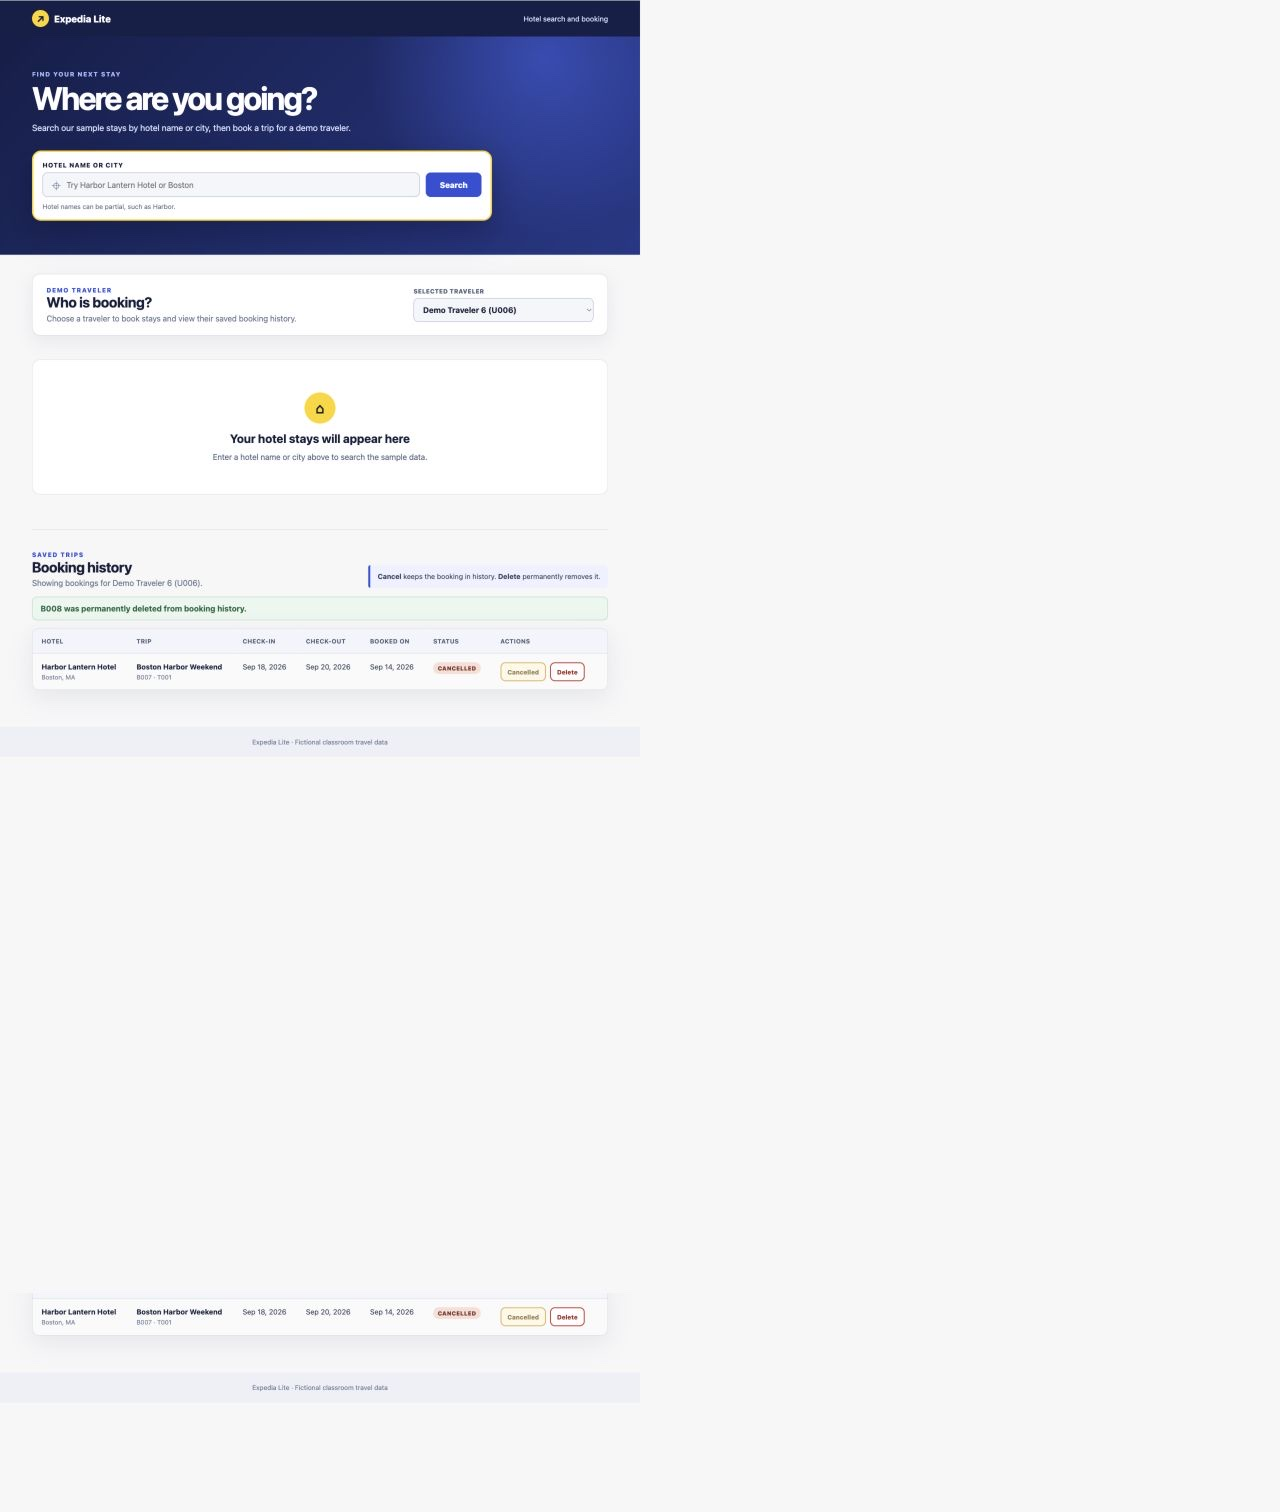
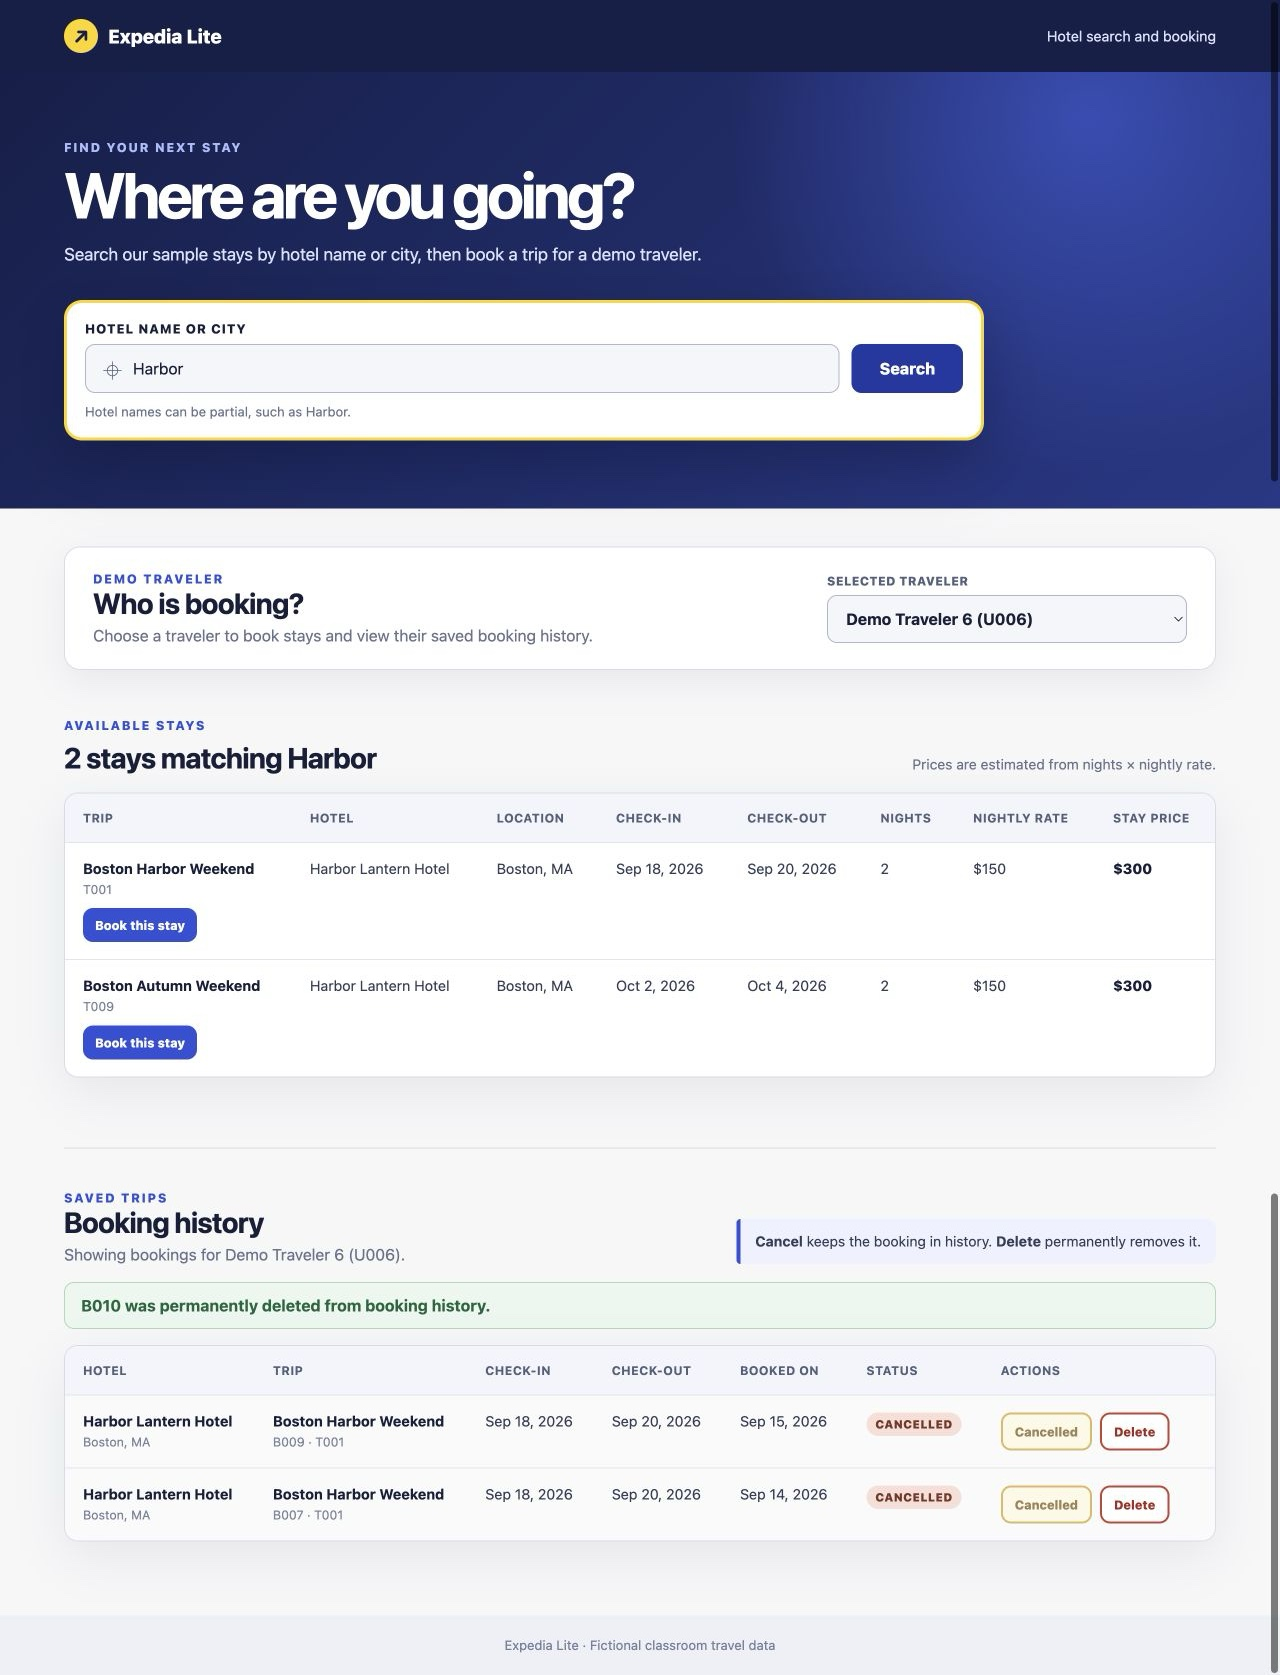
Harden Part 2 verification evidence and search parameter naming

diff --git a/frontend/src/App.vue b/frontend/src/App.vue
@@ -78,7 +78,7 @@ async function search() {
 
   loading.value = true
   try {
-    const response = await fetch(`${API_URL}/api/stays?city=${encodeURIComponent(searchTerm)}`)
+    const response = await fetch(`${API_URL}/api/stays?query=${encodeURIComponent(searchTerm)}`)
     if (!response.ok) {
       throw new Error(await getErrorMessage(response, 'The search service returned an error.'))
     }

diff --git a/backend/tests/test_search.py b/backend/tests/test_search.py
@@ -44,13 +44,39 @@ def test_hotel_name_and_no_match_searches(
 
 
 def test_api_returns_search_metadata_and_stays(client: TestClient) -> None:
-    response = client.get("/api/stays", params={"city": "New York"})
+    response = client.get("/api/stays", params={"query": "New York"})
 
     assert response.status_code == 200
     body = response.json()
     assert body["query"] == "New York"
     assert body["count"] == 3
     assert [stay["trip_id"] for stay in body["stays"]] == ["T003", "T004", "T011"]
+
+
+@pytest.mark.parametrize("parameter_name", ["query", "city"])
+def test_api_accepts_preferred_query_and_deprecated_city_alias(
+    client: TestClient,
+    parameter_name: str,
+) -> None:
+    response = client.get("/api/stays", params={parameter_name: "Harbor"})
+
+    assert response.status_code == 200
+    assert [stay["trip_id"] for stay in response.json()["stays"]] == [
+        "T001",
+        "T009",
+    ]
+
+
+def test_openapi_describes_search_parameters(client: TestClient) -> None:
+    parameters = client.get("/openapi.json").json()["paths"]["/api/stays"]["get"][
+        "parameters"
+    ]
+    parameters_by_name = {parameter["name"]: parameter for parameter in parameters}
+
+    assert parameters_by_name["query"]["description"] == (
+        "Hotel name or city, matched case-insensitively"
+    )
+    assert parameters_by_name["city"]["deprecated"] is True
 
 
 def test_api_rejects_blank_search_query(client: TestClient) -> None:

diff --git a/backend/app/main.py b/backend/app/main.py
@@ -90,17 +90,29 @@ def create_app(
     @application.get("/api/stays", response_model=SearchResponse)
     def get_stays(
         connection: DatabaseConnection,
-        city: str = Query(
-            ...,
-            description="Hotel name or full city name, matched case-insensitively",
+        query: str | None = Query(
+            None,
+            description="Hotel name or city, matched case-insensitively",
+        ),
+        city: str | None = Query(
+            None,
+            deprecated=True,
+            description="Deprecated alias for query; matches a hotel name or city",
         ),
     ) -> SearchResponse:
+        search_query = query if query is not None else city
+        if search_query is None:
+            raise HTTPException(
+                status_code=status.HTTP_422_UNPROCESSABLE_ENTITY,
+                detail="Provide query with a hotel name or city.",
+            )
+
         try:
-            stays = search_stays(connection, city)
+            stays = search_stays(connection, search_query)
         except InvalidSearchQueryError as error:
             raise HTTPException(status_code=400, detail=str(error)) from error
 
-        normalized_query = normalize_search_term(city)
+        normalized_query = normalize_search_term(search_query)
         return SearchResponse(
             query=normalized_query,
             count=len(stays),

diff --git a/report.md b/report.md
@@ -2,6 +2,8 @@
 
 ## Repository and commit
 
+[https://github.com/jakebutler22/Expedia-lite](https://github.com/jakebutler22/Expedia-lite)
+
 Repository snapshot: [github.com/jakebutler22/Expedia-lite at the submitted checkpoint](https://github.com/jakebutler22/Expedia-lite/tree/1079eb7b54b00e391e5d0bb16292e565176a9740)
 
 Submitted Part 2 checkpoint: [`1079eb7b54b00e391e5d0bb16292e565176a9740`](https://github.com/jakebutler22/Expedia-lite/commit/1079eb7b54b00e391e5d0bb16292e565176a9740) (`Complete Part 2 CRUD verification evidence and report`). It contains the verified SQLite implementation, complete Vue CRUD interface, tests, project context, report, handoff, and browser evidence. The annotated Git tag `part2-submission` points to this checkpoint. The Part 1 checkpoint remains intact at `77d101ad62bedad9d7dd82fd03b7cf242fbdb17c` under annotated tag `part1-submission`.
@@ -18,24 +20,25 @@ After seeding, no request path reads a CSV file. Search uses one SQLite join and
 
 ## Verification
 
-Verification was performed on September 14, 2026.
+Verification was performed on September 14–15, 2026.
 
 | Action | Expected result | Observed result |
 | --- | --- | --- |
 | Review every changed file in VS Code Source Control | No request path reads CSV, seeding is marker-gated rather than unconditional, and production booking IDs are not hardcoded. | Opened Source Control and loaded every changed path for file-by-file review. CSV imports and reads occur only in `backend/app/database.py`; `initialize_database` checks `seed_metadata` before `_seed_from_csv`; production IDs come from `booking_id_sequence` and `format_booking_id`. Literal B007/B008 values are confined to tests and recorded verification data. |
+| Verify the Git checkpoint and merge history | Reviewed Part 2 work is developed on a feature branch and merged into `main`; the combined application is checked on `main`; the Part 1 checkpoint remains an ancestor of `main` under `part1-submission`. | The reviewed work was committed on `part2-sqlite-crud` at `1079eb7b54b00e391e5d0bb16292e565176a9740`, then fast-forwarded into `main`. On `main` after the merge, the backend suite and frontend production build passed; the browser/restart SmokeTest evidence was captured on the feature branch and was not repeated on `main`. `git merge-base --is-ancestor 77d101ad62bedad9d7dd82fd03b7cf242fbdb17c main` succeeded, and annotated tag `part1-submission` still resolves to that Part 1 commit. |
 | Run CHECK → TAKE ACTION → VERIFY for SQLite | Identify the project interpreter, verify `sqlite3`, avoid an unnecessary package installation, and prove file persistence. | CHECK used `/Users/jakebutler/Documents/ChatGPT/Expedia-lite/backend/.venv/bin/python`, Python 3.14.7, and SQLite 3.50.4; the standard-library import passed. TAKE ACTION explicitly skipped installation. VERIFY wrote `(1, 'SQLite persistence verified')` to a temporary database, closed and reopened it, read the same row, and removed the temporary file. |
-| Run the backend test suite | Fresh-database seeding, non-reseeding, foreign keys, search, errors, persistent ID allocation, and the complete booking lifecycle pass. | `backend/.venv/bin/python -m pytest backend/tests` collected 23 tests; all 23 passed in 0.17 seconds. Two dependency deprecation warnings were reported. |
-| Build the Vue frontend | Vite produces a production build without errors. | `npm --prefix frontend run build` transformed 11 modules and completed in 140 milliseconds. |
-| Search by hotel name through Vue | Exact and partial hotel-name input returns the matching hotel's stays. | `Harbor Lantern Hotel` returned T001 and T009; partial `Harbor` also displayed those stays. |
+| Run the backend test suite | Fresh-database seeding, non-reseeding, foreign keys, search, errors, persistent ID allocation, and the complete booking lifecycle pass. | `backend/.venv/bin/python -m pytest backend/tests` collected 26 tests; all 26 passed in 0.24 seconds. Two dependency deprecation warnings were reported. The suite verifies both preferred `query` and deprecated `city` search parameters. |
+| Build the Vue frontend | Vite produces a production build without errors. | `npm --prefix frontend run build` transformed 11 modules and completed in 148 milliseconds. |
+| Search by hotel name through Vue | Exact and partial hotel-name input returns the matching hotel's stays. | `Harbor Lantern Hotel` returned T001 and T009; partial `Harbor` also displayed those stays. The Vue request used the preferred `query` parameter. |
 | Search by city through Vue | Part 1 city behavior remains correct. | `Boston` returned exactly T001, T002, T009, and T010. |
 | Search for a missing value through Vue | A clear no-results state appears without a results table. | `Miami` displayed “No hotel stays found for Miami. Try another hotel name or city.” and the search-results region contained no table. |
-| Create a booking through Vue | Booking a result for the selected traveler creates a new non-colliding ID and shows it in history. | Selected U006 and booked T001 from the results table. B007 appeared in history as `confirmed`, with joined hotel/trip details and dates. [Created-booking screenshot](https://github.com/jakebutler22/Expedia-lite/blob/1079eb7b54b00e391e5d0bb16292e565176a9740/docs/screenshots/part2-created.jpg). |
-| Read booking history through Vue | The selected traveler's bookings show hotel, trip, check-in, check-out, booked-on date, and status; an empty traveler gets a clear message. | U006 initially displayed “Demo Traveler 6 has no bookings.” After creation, history displayed every required B007 field. |
-| Cancel a booking through Vue | Cancellation retains the row and changes its status to `cancelled`. | Selected B007's Cancel control. B007 stayed visible with a `cancelled` badge and confirmation text explaining that it remains in history. [Cancelled-booking screenshot](https://github.com/jakebutler22/Expedia-lite/blob/1079eb7b54b00e391e5d0bb16292e565176a9740/docs/screenshots/part2-cancelled.jpg). |
-| Delete a booking through Vue | Inline confirmation permanently removes the chosen test row without deleting the retained cancelled booking. | Created disposable B008, opened its in-page confirmation, and selected **Delete permanently**. B008 disappeared; B007 remained. [Deleted-booking screenshot](https://github.com/jakebutler22/Expedia-lite/blob/1079eb7b54b00e391e5d0bb16292e565176a9740/docs/screenshots/part2-deleted.jpg). |
-| Refresh the browser | Created, cancelled, and deleted state persists without a process restart. | After a full page refresh, B007 remained present and `cancelled`, while B008 remained absent. |
-| Fully restart both backend and frontend | Created, cancelled, and deleted state survives a complete application restart. | Stopped only the two processes started for the test, restarted both against the same SQLite file, and reopened U006 history. B007 remained present and `cancelled`; B008 did not return. [Full-restart persistence screenshot](https://github.com/jakebutler22/Expedia-lite/blob/1079eb7b54b00e391e5d0bb16292e565176a9740/docs/screenshots/part2-restart-persistence.jpg). |
-| Check starter rows after restart | Startup does not duplicate or restore seed records. | SQLite contained 8 hotels, 12 trips, 6 users, and 7 bookings. Each supplied booking B001–B006 occurred once; B007 was the one retained addition; the seed-marker count was 1; and the next booking number remained 9. |
+| Create a booking through Vue | Booking a result for the selected traveler creates a new non-colliding ID and shows it in history. | The original run created B007; the hardening rerun selected U006 and booked T001 as B009 because deleted B008 was not reused. B009 appeared in history as `confirmed`, with joined hotel/trip details and dates. [Created-booking screenshot](https://github.com/jakebutler22/Expedia-lite/blob/1079eb7b54b00e391e5d0bb16292e565176a9740/docs/screenshots/part2-created.jpg). |
+| Read booking history through Vue | The selected traveler's bookings show hotel, trip, check-in, check-out, booked-on date, and status; an empty traveler gets a clear message. | U006 initially displayed “Demo Traveler 6 has no bookings.” The hardening rerun showed every required field for retained B007 and new B009. |
+| Cancel a booking through Vue | Cancellation retains the row and changes its status to `cancelled`. | Cancelled B009 through its history control. B009 stayed visible with a `cancelled` badge beside retained cancelled B007. [Cancelled-booking screenshot](https://github.com/jakebutler22/Expedia-lite/blob/1079eb7b54b00e391e5d0bb16292e565176a9740/docs/screenshots/part2-cancelled.jpg). |
+| Delete a booking through Vue | Inline confirmation permanently removes the chosen test row without deleting retained cancelled bookings. | Created disposable B010, opened its in-page confirmation, and selected **Delete permanently**. B010 disappeared; B007 and B009 remained. Previously deleted B008 also stayed absent. [Deleted-booking screenshot](https://github.com/jakebutler22/Expedia-lite/blob/1079eb7b54b00e391e5d0bb16292e565176a9740/docs/screenshots/part2-deleted.jpg). |
+| Refresh the browser | Created, cancelled, and deleted state persists without a process restart. | After a full page refresh, B007 and B009 remained present and `cancelled`, while B008 and B010 remained absent. |
+| Fully restart both backend and frontend | Created, cancelled, and deleted state survives a complete application restart. | Stopped only the two processes started for the test, restarted both against the same SQLite file, and reopened U006 history. B007 and B009 remained present and `cancelled`; B008 and B010 did not return. [Full-restart persistence screenshot](https://github.com/jakebutler22/Expedia-lite/blob/1079eb7b54b00e391e5d0bb16292e565176a9740/docs/screenshots/part2-restart-persistence.jpg). |
+| Check starter rows after restart | Startup does not duplicate or restore seed records. | SQLite contained 8 hotels, 12 trips, 6 users, and 8 bookings. Each supplied booking B001–B006 occurred once; B007 and B009 were retained additions; the seed-marker count was 1; and the next booking number was 11. |
 | Inspect browser warnings, errors, and dialogs | No application console warning/error or JavaScript alert, confirm, or prompt dialog appears. | Browser inspection returned zero warning/error entries and no active JavaScript dialog. Source review found no calls to `alert`, `confirm`, or `prompt`. |
 
 ## Project context and next steps

diff --git a/docs/verification.md b/docs/verification.md
@@ -86,6 +86,24 @@ Verified on September 14, 2026 against `backend/data/expedia-lite.db` using back
 
 Evidence: [created booking](screenshots/part2-created.jpg), [cancelled booking](screenshots/part2-cancelled.jpg), [deleted test booking](screenshots/part2-deleted.jpg), and [persistence after full restart](screenshots/part2-restart-persistence.jpg).
 
+### Verification-hardening rerun
+
+Re-verified on September 15, 2026 on branch `part2-verification-hardening`. The first backend/Vite pair was fully stopped, both applications were restarted against the same SQLite file, and the restarted pair was also stopped after verification. No unrelated process was stopped.
+
+| Check | Observed result | Status |
+| --- | --- | --- |
+| Backend test suite | `backend/.venv/bin/python -m pytest backend/tests` collected 26 tests; all 26 passed in 0.24 seconds. The suite includes `query` and deprecated `city` parameter coverage, with `Harbor` returning T001 and T009 for each. | Pass |
+| Frontend production build | `npm --prefix frontend run build` transformed 11 modules and completed in 148 milliseconds. | Pass |
+| Browser searches | Partial hotel name `Harbor` returned T001 and T009; city `Boston` returned exactly T001, T002, T009, and T010; `Miami` showed the clear no-results message with no results table. | Pass |
+| Browser create and cancel | Created B009 for U006 through the results table, then cancelled it through history. B009 remained visible with status `cancelled`; previously retained B007 also remained `cancelled`. | Pass |
+| Browser delete | Created disposable B010, used the in-page **Delete permanently** control, and confirmed B010 disappeared from history. | Pass |
+| Browser refresh | B007 and B009 remained visible and `cancelled`; deleted B008 and B010 remained absent. | Pass |
+| Full process restart | Fully stopped and restarted both test-started applications. B007 and B009 remained visible and `cancelled`; B008 and B010 did not return. | Pass |
+| Seed and row counts after restart | SQLite contained 8 hotels, 12 trips, 6 users, and 8 bookings. Each supplied booking B001–B006 occurred exactly once, the seed marker count was 1, and the next booking number was 11. | Pass |
+| Browser console and dialogs | No warning or error entries and no active JavaScript dialog were present. | Pass |
+
+The four JPEGs above were recaptured from clean 1280-pixel-wide browser frames. They show the complete page without the prior duplicated footer or clipped partial row; the restart image keeps the traveler selector, full booking-history rows, and status badges legible together.
+
 ## Manual source review
 
 Before committing, inspect every changed file in VS Code Source Control. Confirm only the one-time database initializer reads CSV files; all application reads and writes use SQLite; calculation and data rules remain independent of FastAPI; the frontend performs search, create, history, cancel, and delete through FastAPI; and cancel and delete remain visibly and behaviorally distinct.

diff --git a/docs/design-pipeline.md b/docs/design-pipeline.md
@@ -41,7 +41,7 @@ The marker and starter inserts share one transaction. A failed import rolls back
 Hotel name or city + Search
             |
             v
-GET /api/stays?city=<query>
+GET /api/stays?query=<query>
             |
             v
 FastAPI obtains a SQLite connection
@@ -58,6 +58,8 @@ JSON response -> Vue results table or no-results state
 ```
 
 Hotel-name matching is trimmed, case-insensitive, and partial; city matching is trimmed, case-insensitive, and exact. The existing Part 1 table headings and calculated nights × nightly-rate price remain intact.
+
+`query` is the preferred request parameter. The API continues to accept `city` as a deprecated alias so existing Part 1 clients keep working.
 
 ## Booking CRUD pipeline
 
